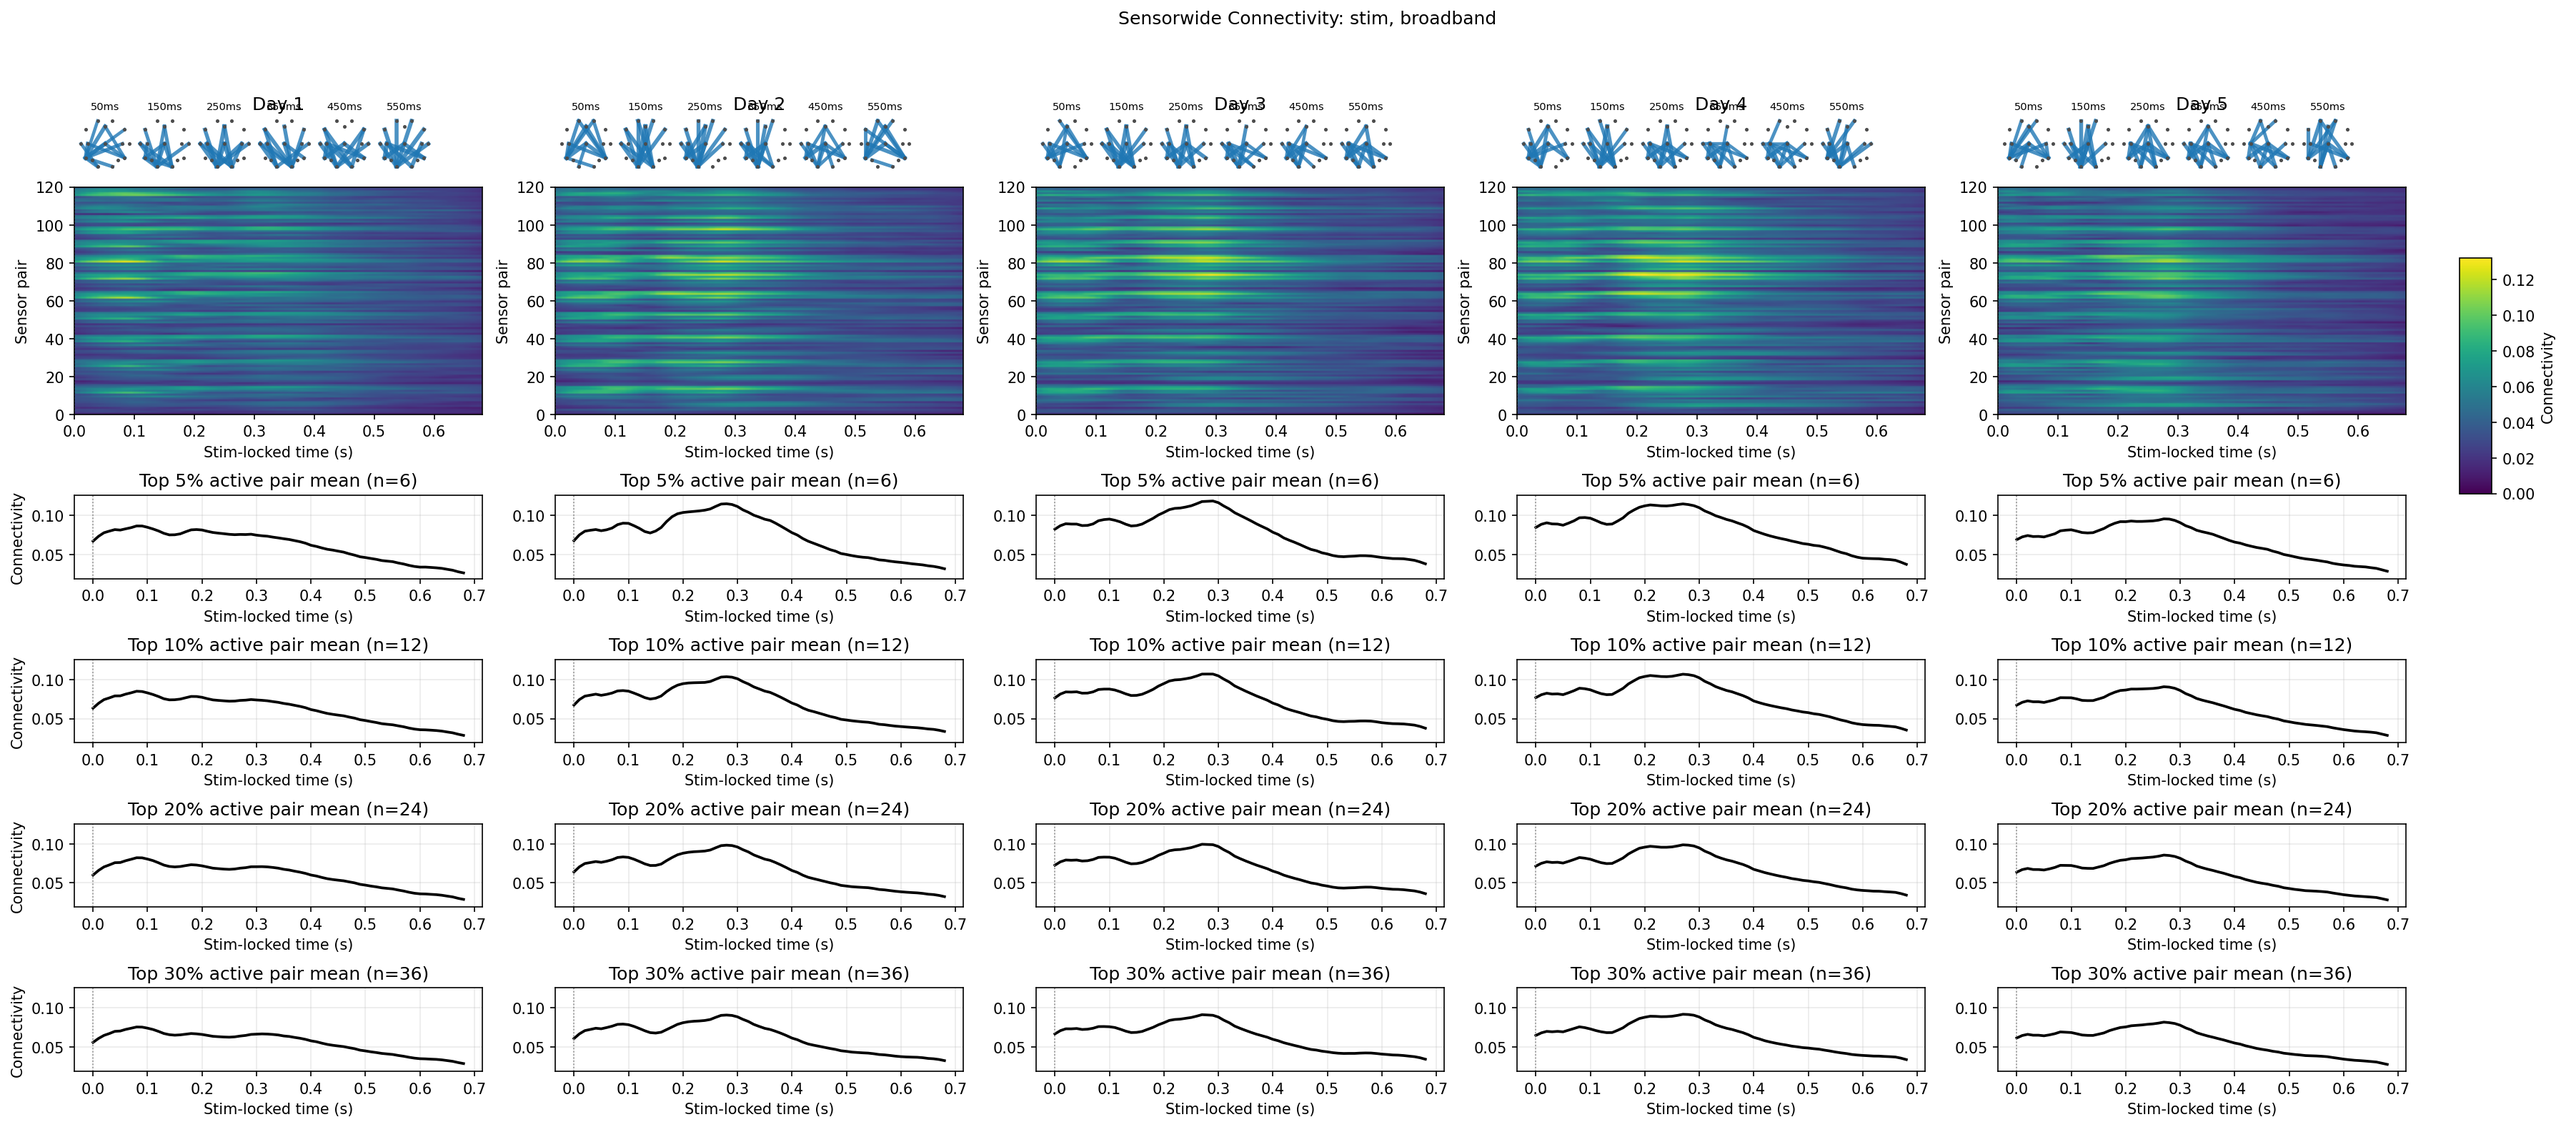
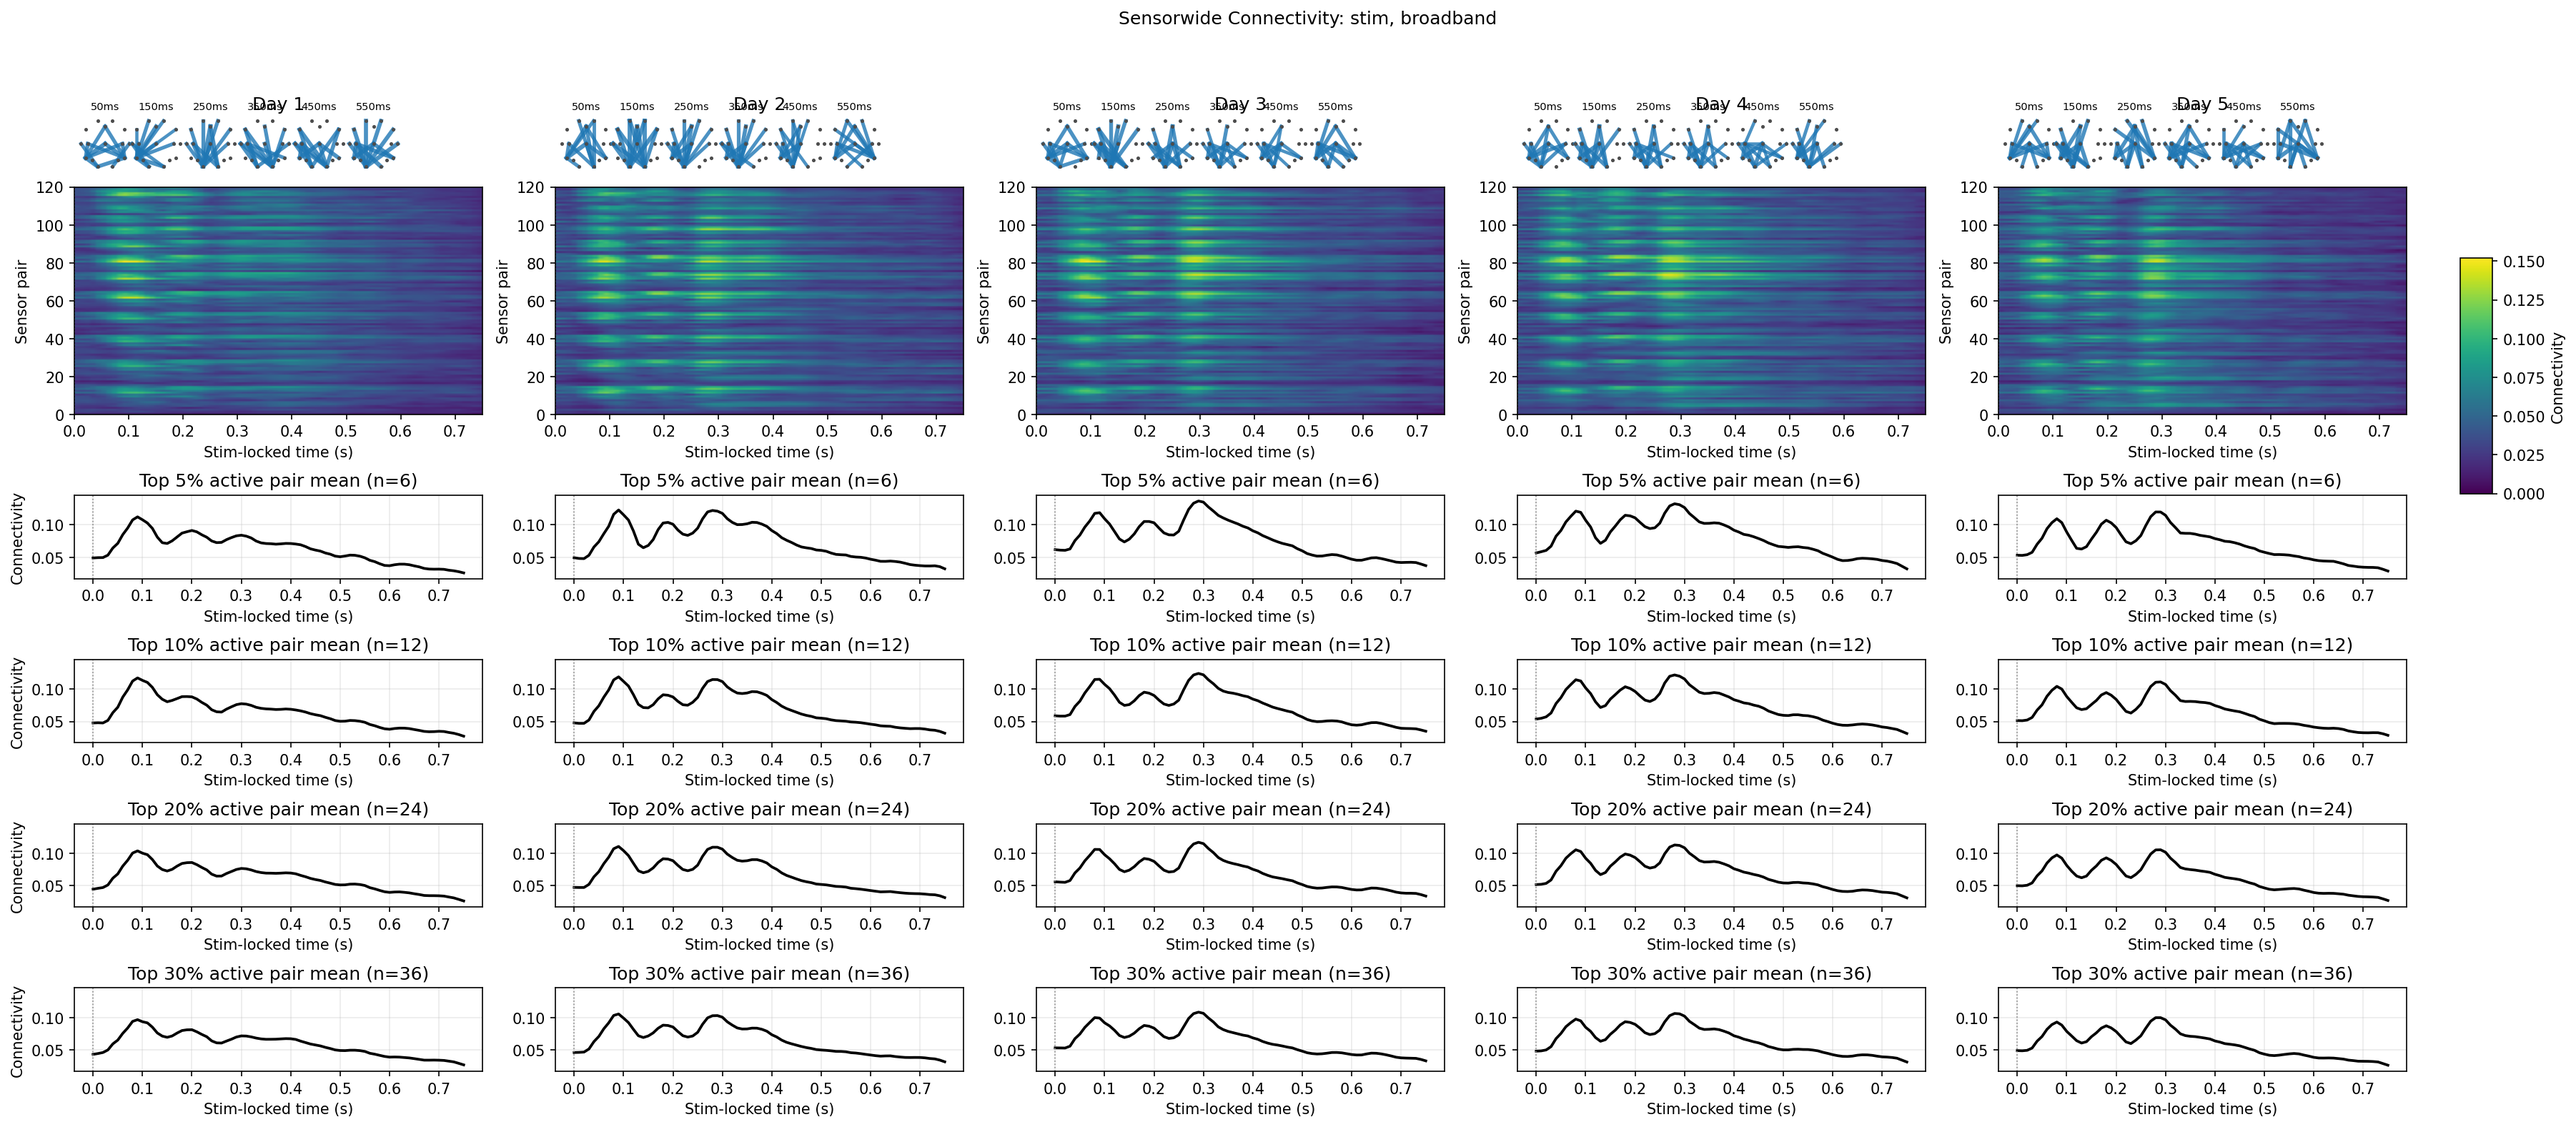
new connect

diff --git a/code/connect_sensorwide_analysis.py b/code/connect_sensorwide_analysis.py
@@ -34,9 +34,6 @@ CHANNEL_SUBSET = [
 
 BANDS = {
     "broadband": None,
-    "delta": (1.0, 4.0),
-    "theta": (4.0, 8.0),
-    "alpha": (8.0, 12.0),
 }
 
 
@@ -187,7 +184,7 @@ def channel_xy(info, ch_names):
 def run_sensorwide_connectivity_analysis(
     channel_subset: list[str] = CHANNEL_SUBSET,
     bands: dict = BANDS,
-    window_sec: float = 0.12,
+    window_sec: float = 0.05,
     step_sec: float = 0.01,
     stim_tmin: float = 0.00,
     stim_tmax: float = 0.80,
